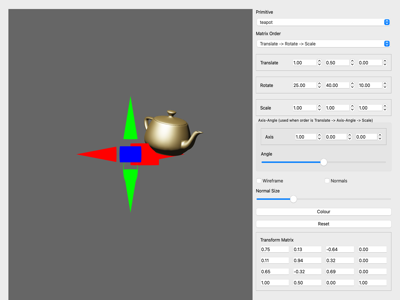
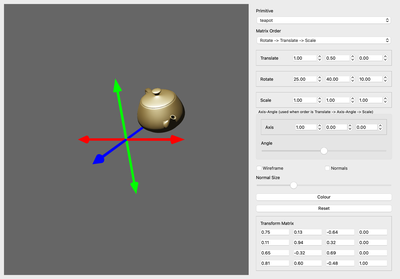
fix: correct the AffineTransforms axis gizmo orientation and size
The gizmo was ported straight from the C++ NGL Axis, where the cylinder
runs along z from the origin. PyNGL's PrimData.cylinder is aligned down y
and centred, so every shaft ended up pointing along the wrong axis, and
the cones were the only part of the gizmo that read correctly.

It also drew whatever the demo had registered as "cylinder"/"cone" --
radius 0.5 primitives sized for the object being transformed -- which made
the arrows fatter than they were long and forced main.py to compensate
with scale=0.35.

draw_axis() now registers its own unit shaft and head, sets every
dimension from the scale argument (the half-length of each axis) and picks
the rotation that maps each primitive's own axis onto the drawn one.
Screenshot regenerated with the fixed gizmo.

Claude-Session: https://claude.ai/code/session_01QTaiCm1jYFdFtktJR4owFT

diff --git a/AffineTransforms/axis.py b/AffineTransforms/axis.py
@@ -2,8 +2,32 @@
 
 from __future__ import annotations
 
-from ncca.ngl import Mat4, Transform
+from ncca.ngl import Mat4, Prims, Transform
 from ncca.ngl.opengl import DefaultShader, Primitives, ShaderLib
+
+# The gizmo builds its own unit shaft and head rather than borrowing whatever
+# the host demo happens to have registered as "cylinder"/"cone" -- those are
+# sized for the thing being drawn (radius 0.5 here), which made the axis
+# thicker than it was long. A unit cylinder (y aligned, centred, height and
+# diameter both 1) and a unit cone (z aligned, base at the origin, apex at
+# z = 1) let the transform below set every dimension in units of the axis
+# length, so the proportions hold at any scale.
+_SHAFT = "_axis_shaft"
+_HEAD = "_axis_head"
+_created = False
+
+# Proportions, as fractions of the axis half-length.
+_SHAFT_RADIUS = 0.02
+_HEAD_RADIUS = 0.07
+_HEAD_LENGTH = 0.2
+
+
+def _create_primitives() -> None:
+    global _created
+    if not _created:
+        Primitives.create(Prims.CYLINDER, _SHAFT, 1.0, 1.0, 20, 1)
+        Primitives.create(Prims.CONE, _HEAD, 1.0, 1.0, 20, 1)
+        _created = True
 
 
 def _load_matrices(view: Mat4, project: Mat4, global_tx: Mat4, model: Mat4) -> None:
@@ -11,58 +35,67 @@ def _load_matrices(view: Mat4, project: Mat4, global_tx: Mat4, model: Mat4) -> N
     ShaderLib.set_uniform("MVP", project @ mv)
 
 
-def draw_axis(view: Mat4, project: Mat4, global_tx: Mat4, scale: float = 1.5) -> None:
-    """Draw a red/green/blue X/Y/Z axis gizmo at the origin.
-
-    Requires Primitives.load_default_primitives() to already have been
-    called (draws "cylinder" and "cone").
-    """
-    ShaderLib.use(DefaultShader.COLOUR)
+def _draw(
+    view: Mat4,
+    project: Mat4,
+    global_tx: Mat4,
+    prim: str,
+    scale: tuple[float, float, float],
+    rotation: tuple[float, float, float],
+    position: tuple[float, float, float],
+) -> None:
     tx = Transform()
+    tx.set_scale(*scale)
+    tx.set_rotation(*rotation)
+    tx.set_position(*position)
+    _load_matrices(view, project, global_tx, tx.matrix())
+    Primitives.draw(prim)
 
-    # X axis (red)
-    ShaderLib.set_uniform("Colour", 1.0, 0.0, 0.0, 1.0)
-    tx.set_scale(scale, scale, scale * 2)
-    tx.set_position(scale, 0, 0)
-    tx.set_rotation(0, 90, 0)
-    _load_matrices(view, project, global_tx, tx.matrix())
-    Primitives.draw("cylinder")
-    tx.set_position(scale, 0, 0)
-    _load_matrices(view, project, global_tx, tx.matrix())
-    Primitives.draw("cone")
-    tx.set_position(-scale, 0, 0)
-    tx.set_rotation(0, -90, 0)
-    _load_matrices(view, project, global_tx, tx.matrix())
-    Primitives.draw("cone")
 
-    # Y axis (green)
-    ShaderLib.set_uniform("Colour", 0.0, 1.0, 0.0, 1.0)
-    tx.set_scale(scale, scale, scale * 2)
-    tx.set_position(0, -scale, 0)
-    tx.set_rotation(90, 0, 0)
-    _load_matrices(view, project, global_tx, tx.matrix())
-    Primitives.draw("cylinder")
-    tx.set_position(0, scale, 0)
-    tx.set_rotation(-90, 0, 0)
-    _load_matrices(view, project, global_tx, tx.matrix())
-    Primitives.draw("cone")
-    tx.set_position(0, -scale, 0)
-    tx.set_rotation(90, 0, 0)
-    _load_matrices(view, project, global_tx, tx.matrix())
-    Primitives.draw("cone")
+def draw_axis(view: Mat4, project: Mat4, global_tx: Mat4, scale: float = 1.0) -> None:
+    """
+    Draw a red/green/blue X/Y/Z axis gizmo at the origin.
 
-    # Z axis (blue)
-    ShaderLib.set_uniform("Colour", 0.0, 0.0, 1.0, 1.0)
-    tx.set_scale(scale, scale, scale * 2)
-    tx.set_position(0, 0, scale)
-    tx.set_rotation(0, 0, -90)
-    _load_matrices(view, project, global_tx, tx.matrix())
-    Primitives.draw("cylinder")
-    tx.set_position(0, 0, scale)
-    tx.set_rotation(0, 0, 0)
-    _load_matrices(view, project, global_tx, tx.matrix())
-    Primitives.draw("cone")
-    tx.set_position(0, 0, -scale)
-    tx.set_rotation(180, 0, 0)
-    _load_matrices(view, project, global_tx, tx.matrix())
-    Primitives.draw("cone")
+    Each axis is a thin shaft through the origin with an arrow head at both
+    ends, so the negative half of each axis is as visible as the positive one.
+
+    Parameters
+    ----------
+        view : Mat4
+            the camera view matrix
+        project : Mat4
+            the camera projection matrix
+        global_tx : Mat4
+            the scene's mouse rotation/translation matrix
+        scale : float
+            half-length of each axis, i.e. the arrow tips sit at +/- scale
+    """
+    _create_primitives()
+    ShaderLib.use(DefaultShader.COLOUR)
+
+    r = _SHAFT_RADIUS * scale
+    head_len = _HEAD_LENGTH * scale
+    head_r = _HEAD_RADIUS * scale
+    # The shaft stops where the heads start, so the tips land exactly on
+    # +/- scale; the unit cylinder is centred, hence the full span here.
+    shaft_len = 2.0 * (scale - head_len)
+    tip = scale - head_len
+
+    shaft = (r, shaft_len, r)
+    head = (head_r, head_r, head_len)
+
+    # Rotations take the primitive's own axis onto the drawn one: the shaft
+    # points down +y and the head down +z, both in a right handed frame.
+    axes = (
+        # colour,         shaft rotation, +head rotation, -head rotation, direction
+        ((1.0, 0.0, 0.0), (0, 0, -90), (0, 90, 0), (0, -90, 0), (1, 0, 0)),
+        ((0.0, 1.0, 0.0), (0, 0, 0), (-90, 0, 0), (90, 0, 0), (0, 1, 0)),
+        ((0.0, 0.0, 1.0), (90, 0, 0), (0, 0, 0), (0, 180, 0), (0, 0, 1)),
+    )
+
+    for colour, shaft_rot, pos_rot, neg_rot, direction in axes:
+        ShaderLib.set_uniform("Colour", *colour, 1.0)
+        _draw(view, project, global_tx, _SHAFT, shaft, shaft_rot, (0, 0, 0))
+        offset = tuple(d * tip for d in direction)
+        _draw(view, project, global_tx, _HEAD, head, pos_rot, offset)
+        _draw(view, project, global_tx, _HEAD, head, neg_rot, tuple(-o for o in offset))

diff --git a/AffineTransforms/main.py b/AffineTransforms/main.py
@@ -230,13 +230,10 @@ class Scene(PySideEventHandlingMixin, QOpenGLWindow):
             Primitives.draw(_VBO_NAMES[self.draw_index])
 
         gl.glPolygonMode(gl.GL_FRONT_AND_BACK, gl.GL_FILL)
-        # draw_axis()'s own default scale (1.5) is sized for a much larger
-        # scene -- against ncca.ngl's stock teapot (roughly 1.9 units along
-        # its longest axis) it swallows the primitive whole, so the very
-        # thing this demo exists to show never appears. Pass an explicit
-        # smaller scale here rather than touching axis.py's default, since
-        # the signature is this task's produced interface.
-        draw_axis(self.view, self.project, global_tx, scale=0.35)
+        # scale is the half-length of each axis, so 1.5 puts the arrow tips
+        # just outside ncca.ngl's stock teapot (roughly 1.9 units along its
+        # longest axis) without hiding it.
+        draw_axis(self.view, self.project, global_tx, scale=1.5)
 
     def resizeGL(self, w: int, h: int) -> None:
         self.window_width = int(w * self.devicePixelRatio())

diff --git a/AffineTransforms/README.md b/AffineTransforms/README.md
@@ -46,8 +46,14 @@ uv run main.py
 ## Notes
 
 - `axis.py` is a small standalone RGB gizmo (X red, Y green, Z blue) drawn
-  with `DefaultShader.COLOUR` — it only needs `Primitives.load_default_primitives()`
-  to have been called first for its cylinder/cone primitives to exist.
+  with `DefaultShader.COLOUR`. It registers its own unit cylinder and cone
+  the first time it draws, so every dimension comes from the `scale`
+  argument (the half-length of each axis) and the proportions hold however
+  big you draw it — borrowing the demo's own "cylinder"/"cone" instead gave
+  a gizmo fatter than it was long. If you port the C++ NGL version, note
+  that `PrimData.cylinder` is aligned down y and centred on the origin
+  whilst `PrimData.cone` runs from the origin along +z, so the shaft and
+  the head need different rotations to point the same way.
 - Reuses `Camera/shaders/PBRVertex.glsl` and `PBRFragment.glsl` rather than
   porting AffineTransforms' own single-light PBR variant from NGL9Demos —
   one working PBR permutation is enough, the point of this demo is matrix
